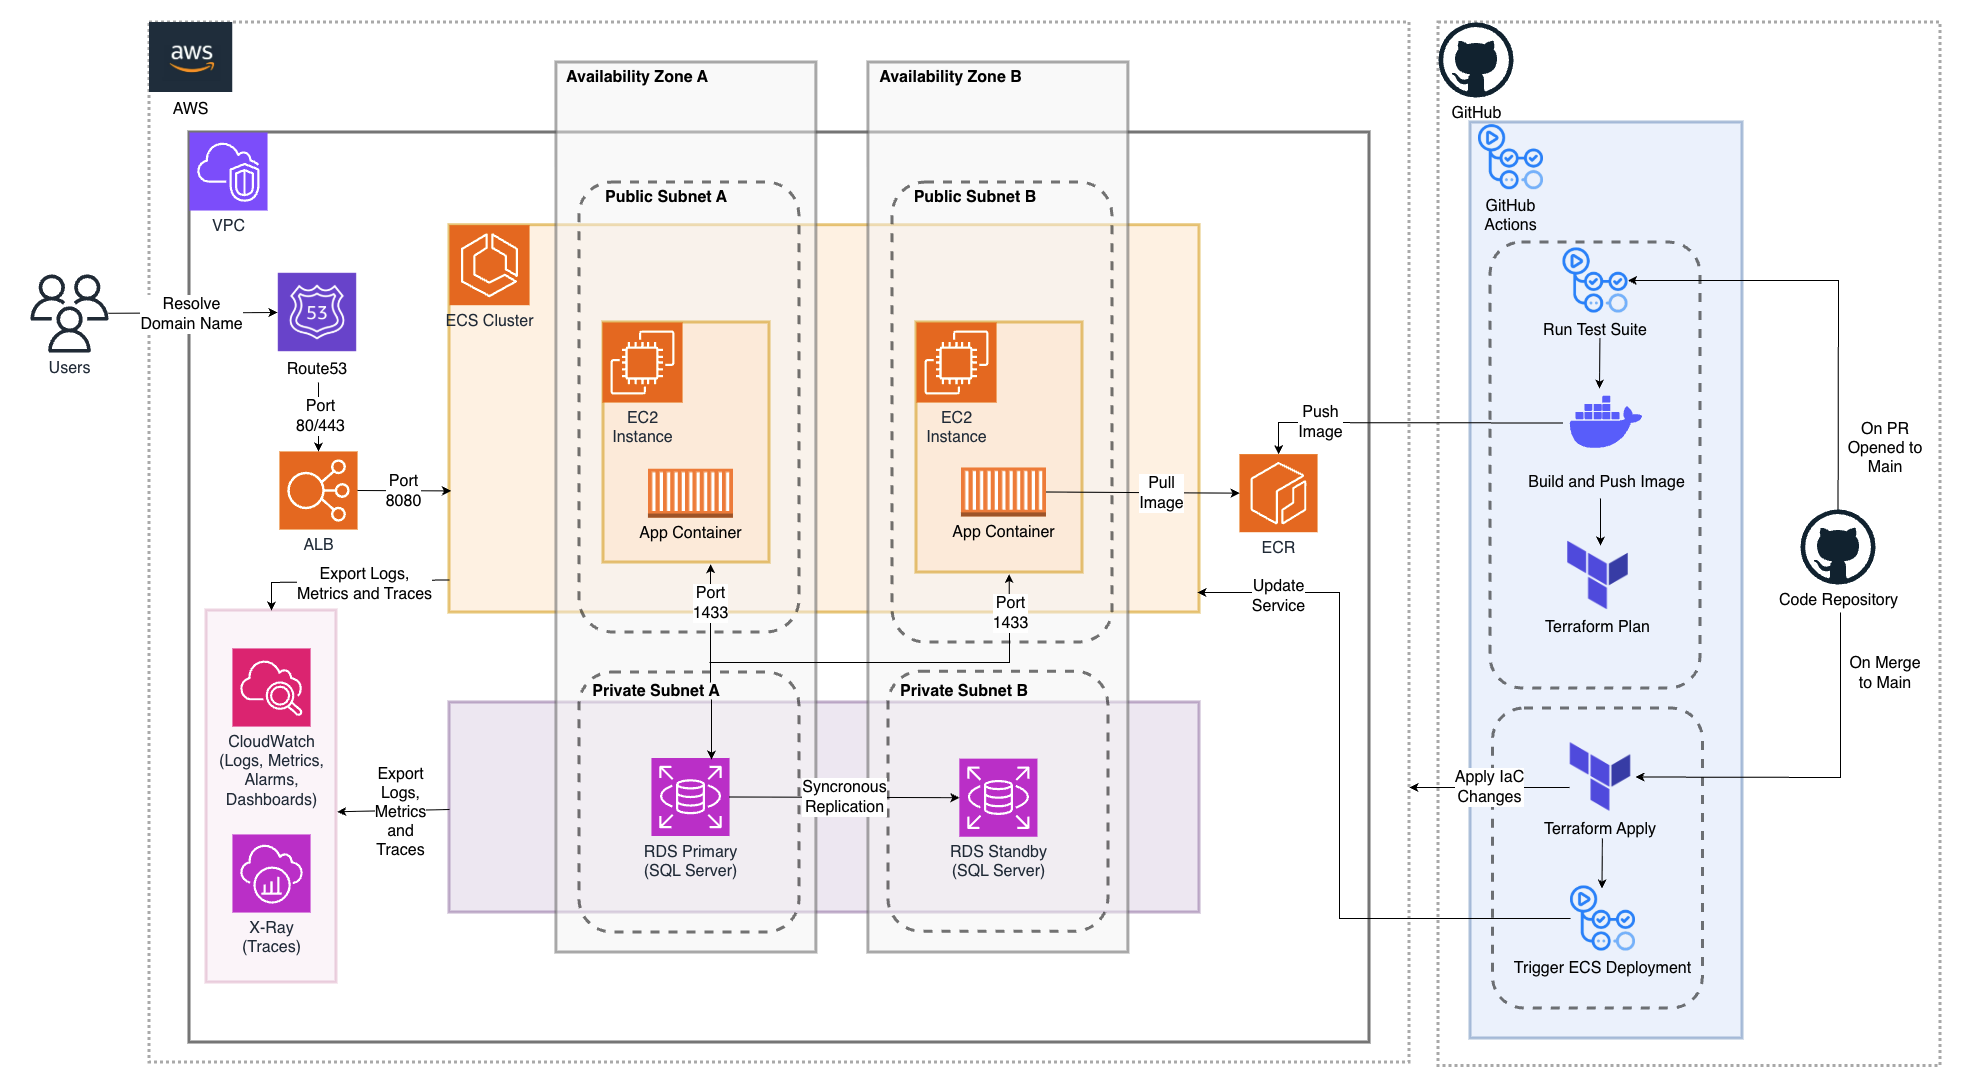
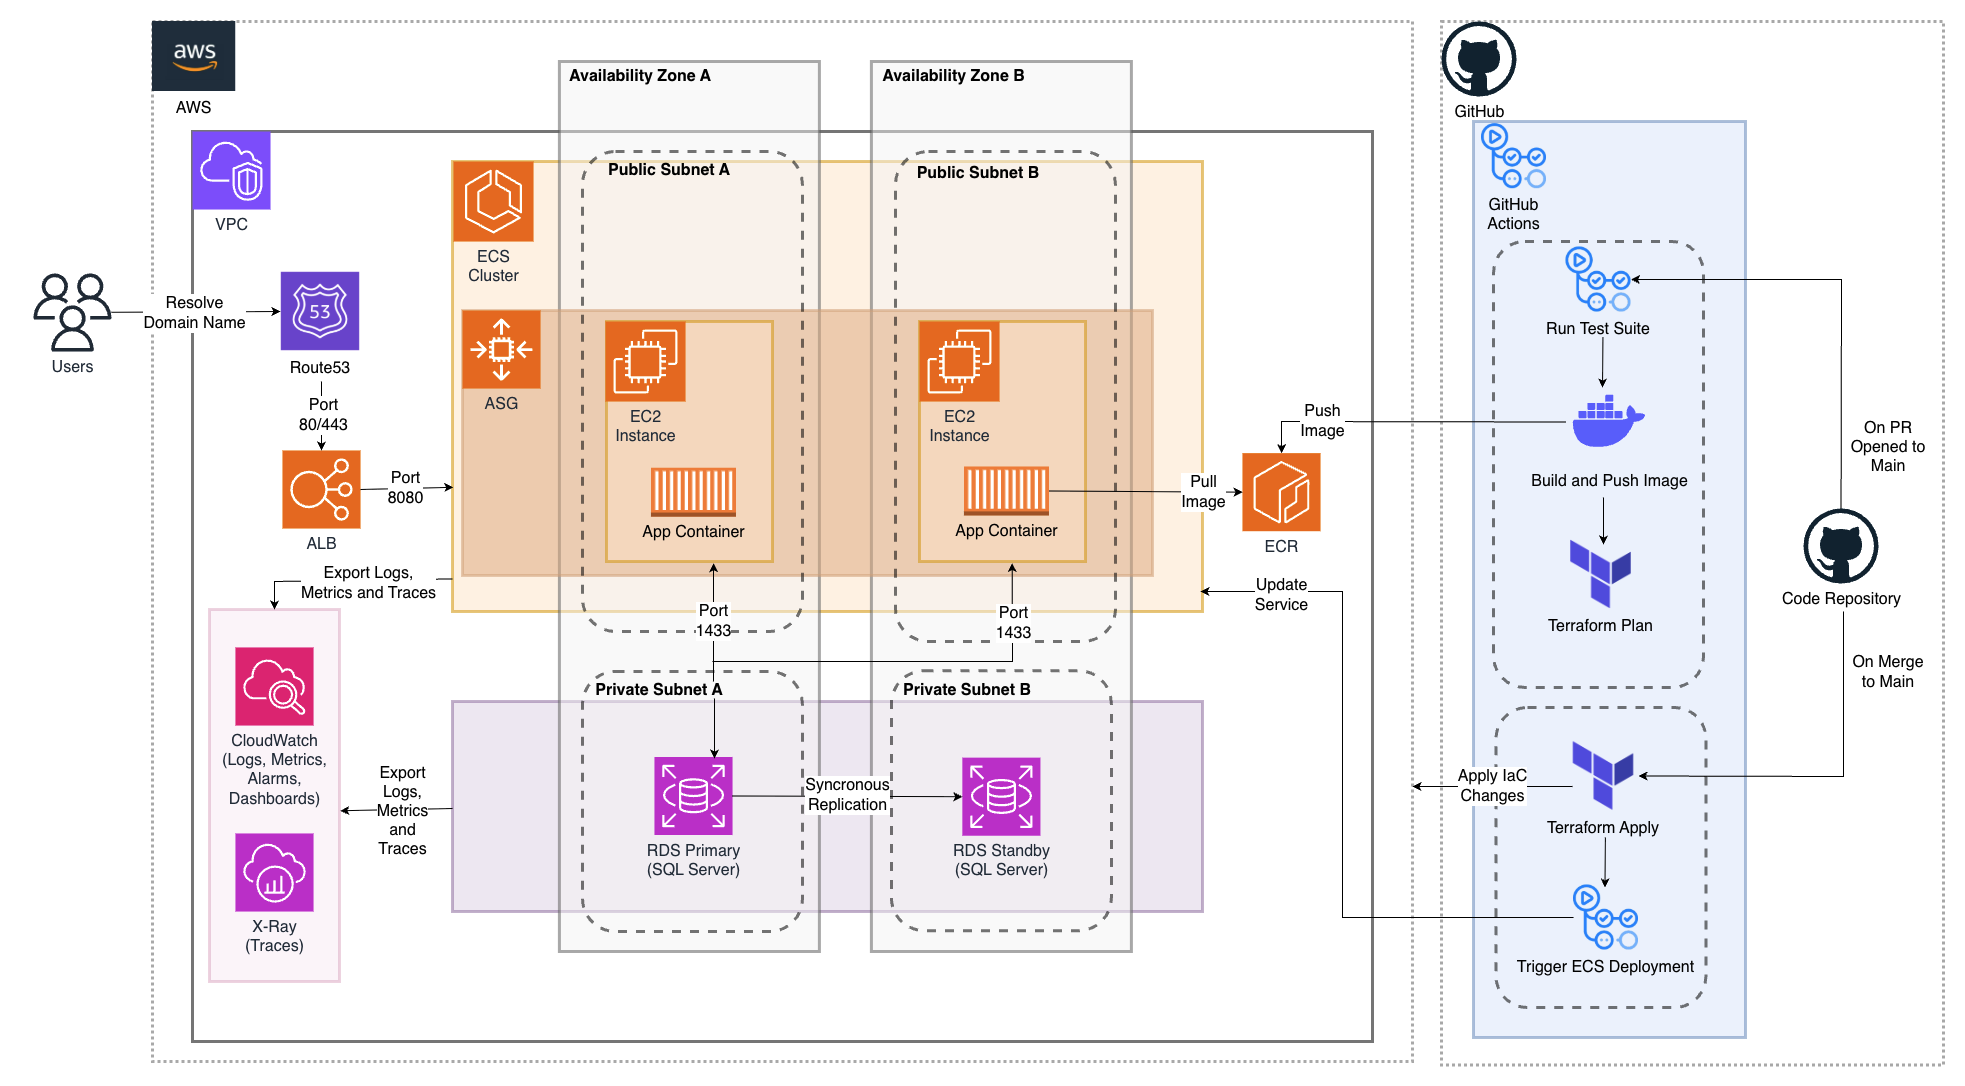
feat: update diagram and design to include info on ASG

diff --git a/design.md b/design.md
@@ -1,7 +1,7 @@
 # .NET Application AWS Migration MVP
 
 ## High Level Overview
-The application runs on ECS-orchestrated containers on EC2, with images stored in ECR and data in RDS (SQL Server). Legacy data is migrated via AWS DMS. All resources sit within a VPC, segmented into public/private subnets across two AZs for security and high availability. Users connect via a domain name, which Route 53 resolves to an ALB that distributes traffic across ECS tasks. Infrastructure and Dockerfiles live in GitHub, with CI/CD via GitHub Actions — CI triggers on PR to Main (tests, builds/pushes image to ECR, outputs Terraform plan), CD triggers on merge (Terraform apply, ECS deployment). Observability is provided by CloudWatch (logs/metrics) and X-Ray (distributed tracing).
+The application runs on ECS-orchestrated containers on EC2s (within an ASG), with images stored in ECR and data in RDS (SQL Server). Legacy data is migrated via AWS DMS. All resources sit within a VPC, segmented into public/private subnets across two AZs for security and high availability. Users connect via a domain name, which Route 53 resolves to an ALB that distributes traffic across ECS tasks. Infrastructure and Dockerfiles live in GitHub, with CI/CD via GitHub Actions — CI triggers on PR to Main (tests, builds/pushes image to ECR, outputs Terraform plan), CD triggers on merge (Terraform apply, ECS deployment). Observability is provided by CloudWatch (logs/metrics) and X-Ray (distributed tracing).
 
 
 ### MVP Final High Level Architecture
@@ -14,6 +14,7 @@ Security services (ACM, Secrets Manager, IAM, Security Groups) and the DMS migra
 ### Compute and Containers
 - **ECS**: Manages container orchestration — lower operational overhead than EKS, which would be overkill for a single .NET application MVP.
 - **EC2**: Hosts the containers. Chosen over Fargate for greater control and cost-effectiveness given a predictable MVP workload.
+- **ASG**: Manages and scales the EC2 instances underpinning the ECS cluster. Ensures failed instances are automatically replaced, maintaining resilience and availability.
 ### Networking
 - **VPC**: Isolates all infrastructure, controlling public/private access and inter-resource communication.
 - **Subnets**: Two public and two private subnets across two AZs — minimises exposure per resource (e.g. RDS in private) and enables high availability.
